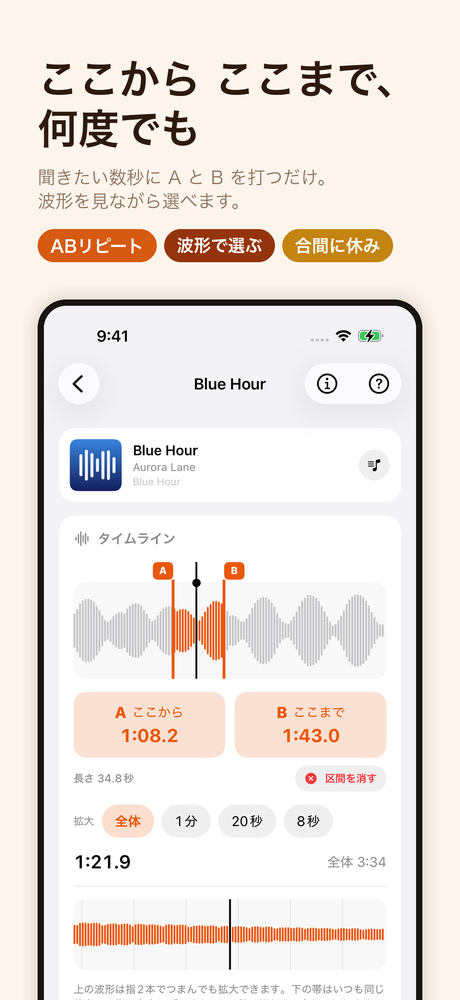
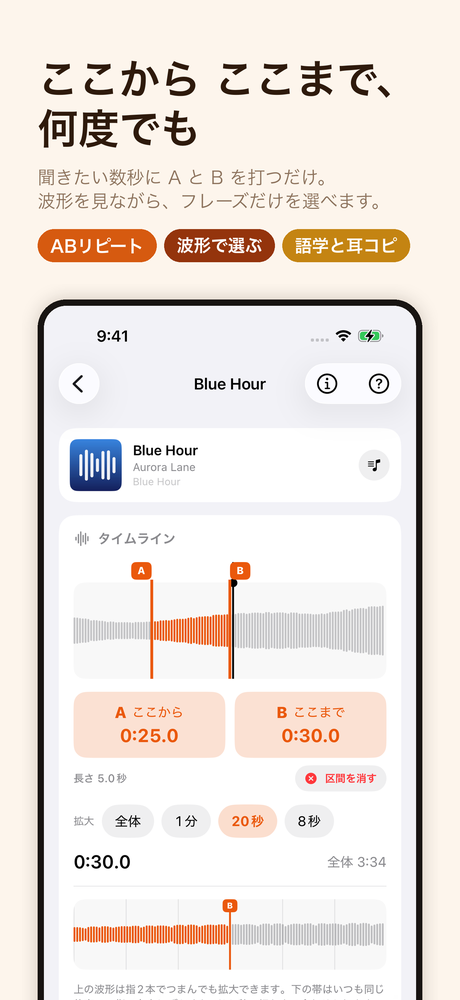
ABループレイの画面を10枚にして、語学と耳コピを前に出す
ストアの並びに合わせて差し替えた。1枚目は波形で区間を打つところ、2枚目は
語学の教材をゆっくり＋合間の休みで。9・10枚目に曲ぜんたいと耳コピを足して
10枚になった。

このアプリを使いたくなる理由は「語学の発音を反復する」「音楽のフレーズを
反復する（耳コピ）」の2つなので、要点の囲みと meta description にも書き、
節をひとつ足した。トップの紹介文も同じ。

diff --git a/index.html b/index.html
@@ -246,7 +246,8 @@ Takayuki Takemoto と申します。アプリを作っています。
     </p>
     <p>
     速さは 0.5 倍から 2 倍まで、音の高さは変わりません。くりかえしの合間には 0.5 秒の休みが
-    入るので、聞いたすぐあとに自分でも言ってみられます。ふだんの音楽プレイヤーとしても使えて、
+    入るので、聞いたすぐあとに自分でも言ってみられます。語学の発音練習にも、楽器の耳コピにも。
+    ふだんの音楽プレイヤーとしても使えて、
     曲に書かれている情報からアーティストとアルバムで並べ、その情報をアプリの中から直せます。
     通信は一切行いません。
     </p>
